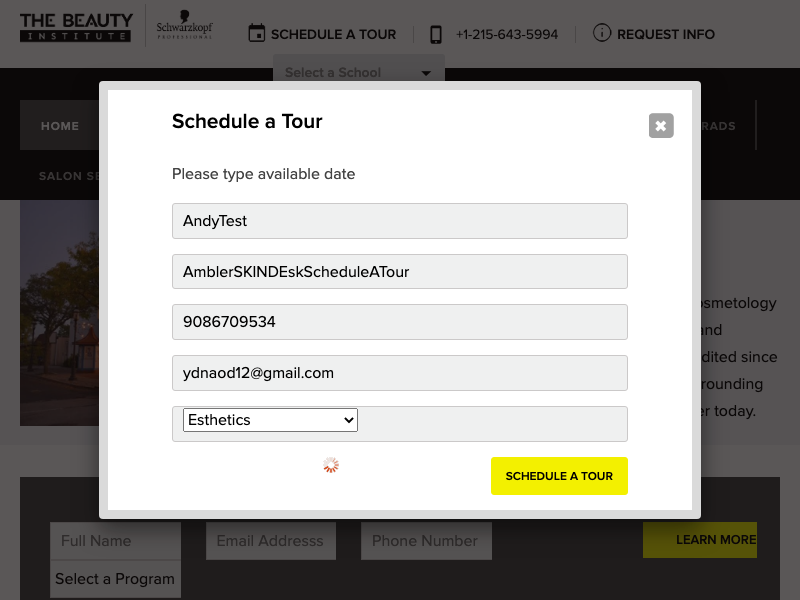
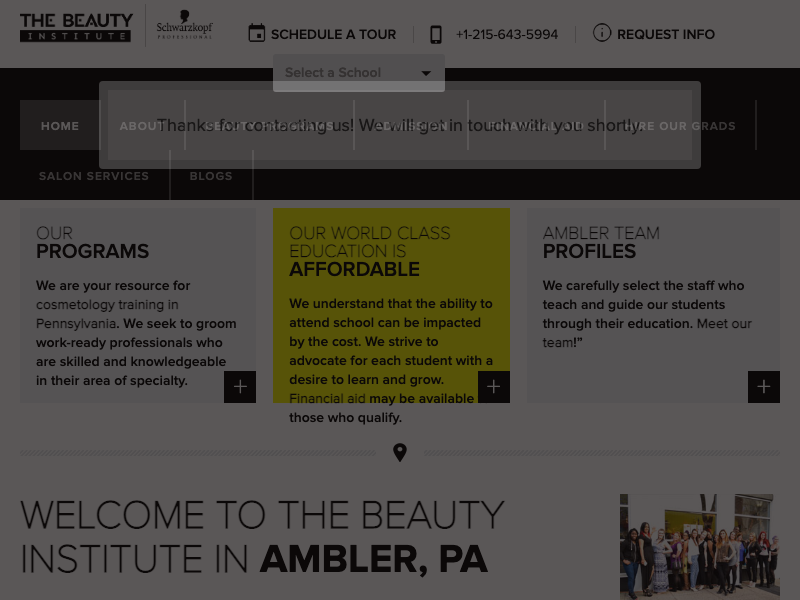
finish all of ambler's forms

diff --git a/AutomatedForms.js b/AutomatedForms.js
@@ -21,7 +21,7 @@ puppeteer.launch({headless:true}).then(async (browser) => {
   
   await page.goto('http://ambler.thebeautyinstituteskp.edu/');
   await page.solveRecaptchas();
-  /*
+  
   await page.type('#input_6_1', 'AndyTest AmblerCOSDEskStartCareerNow'); 
   await page.type('#input_6_2', 'ydnaod@gmail.com'); 
   await page.type('#input_6_3', '9086709533'); 
@@ -32,7 +32,8 @@ puppeteer.launch({headless:true}).then(async (browser) => {
 
 
   await Promise.all([
-    page.waitForSelector('#input_7_7'),
+    //page.waitForSelector('#input_7_7'),
+    page.waitForTimeout(5000),
     page.click('.schedule'),
   ]);
   await page.type('#input_7_7', 'AndyTest'); 
@@ -42,27 +43,27 @@ puppeteer.launch({headless:true}).then(async (browser) => {
   await page.type('#input_7_4', 'Esthetics'); 
 
    await page.click('#gform_submit_button_7');
-   await page.screenshot({path: 'example.png'});
-
-  //await page.click('#gform_submit_button_7');
-  await page.screenshot({path: 'example2.png'});
+   //await page.screenshot({path: 'example.png'});
 
   await Promise.all([
-    page.waitForSelector('#gform_confirmation_message_7'),
-    page.screenshot({path: 'example3.png'}),
-    page.click('.fancybox-item'),
-    page.screenshot({path: 'example4.png'})
+    //page.click('#gform_submit_button_7'),
+    page.screenshot({path: 'example.png'}),
+    //page.waitForSelector('#gform_confirmation_message_7'),
+    page.waitForTimeout(5000),
+    page.screenshot({path: 'example2.png'})
   ]);
 
-  await page.screenshot({path: 'example5.png'})
-  await page.click('.fancybox-overlay')
-  await page.screenshot({path: 'example6.png'});
+  await page.waitForTimeout(5000);
+  await page.screenshot({path: 'example3.png'});
+  await page.click('.fancybox-overlay');
+  await page.screenshot({path: 'example4.png'});
   
   await page.waitForTimeout(5000);
 
   await Promise.all([
-    page.waitForSelector('.request-info'),
-    page.waitForSelector('#input_3_3'),
+    //page.waitForSelector('.request-info'),
+    //page.waitForSelector('#input_3_3'),
+    page.waitForTimeout(5000),
     page.click('.request-info')
   ]);
   await page.waitForTimeout(3000);
@@ -73,16 +74,19 @@ puppeteer.launch({headless:true}).then(async (browser) => {
   await page.type('#input_3_5', 'Esthetics'); 
 
   await page.click('#gform_submit_button_3');
+  await page.screenshot({path: 'example5.png'});
   await Promise.all([
-    page.waitForSelector('#gform_confirmation_message_3'),
-    page.screenshot({path: 'example3.png'}),
-    page.click('.fancybox-item'),
-    page.screenshot({path: 'example4.png'})
+    //page.waitForSelector('#gform_confirmation_message_3'),
+    page.waitForTimeout(5000),
+    page.screenshot({path: 'example6.png'}),
+    page.click('.fancybox-overlay'),
+    page.screenshot({path: 'example7.png'})
   ]);
  
   await page.waitForTimeout(3000);
-  await page.screenshot({path: 'example7.png'});
-  */
+  await page.click('.fancybox-overlay');
+  await page.screenshot({path: 'example8.png'});
+  
 
  await page.type('#input_1_7', 'AndyTest'); 
  await page.type('#input_1_8', 'AmblerCOSDEskBotRequestInfo'); 
@@ -90,10 +94,15 @@ puppeteer.launch({headless:true}).then(async (browser) => {
  await page.type('#input_1_2', 'ydnaod2@gmail.com'); 
  await page.type('#input_1_3', '9086709534'); 
 
- await page.screenshot({path: 'example7.png'});
+ await page.screenshot({path: 'example9.png'});
  await page.waitForTimeout(2000);
  await page.click('#gform_submit_button_1');
-
+ await page.waitForTimeout(2000);
+ await page.screenshot({path: 'example10.png'});
+ await page.waitForTimeout(2000);
+ await page.screenshot({path: 'example11.png'});
+ await page.waitForTimeout(8000);
+ await page.screenshot({path: 'example12.png'});
   // other actions...
   await browser.close();
 });
